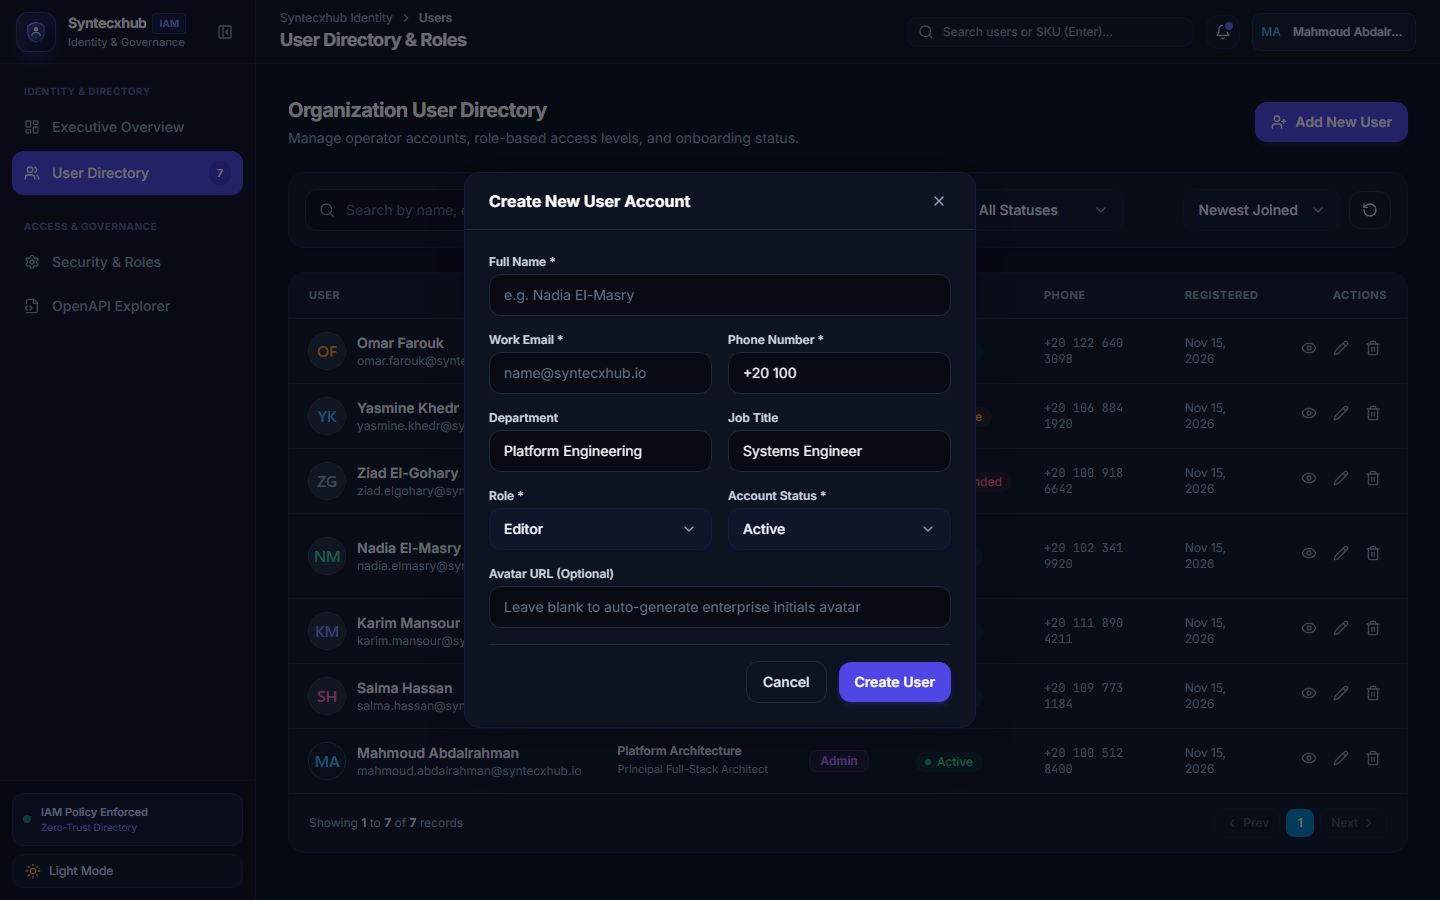
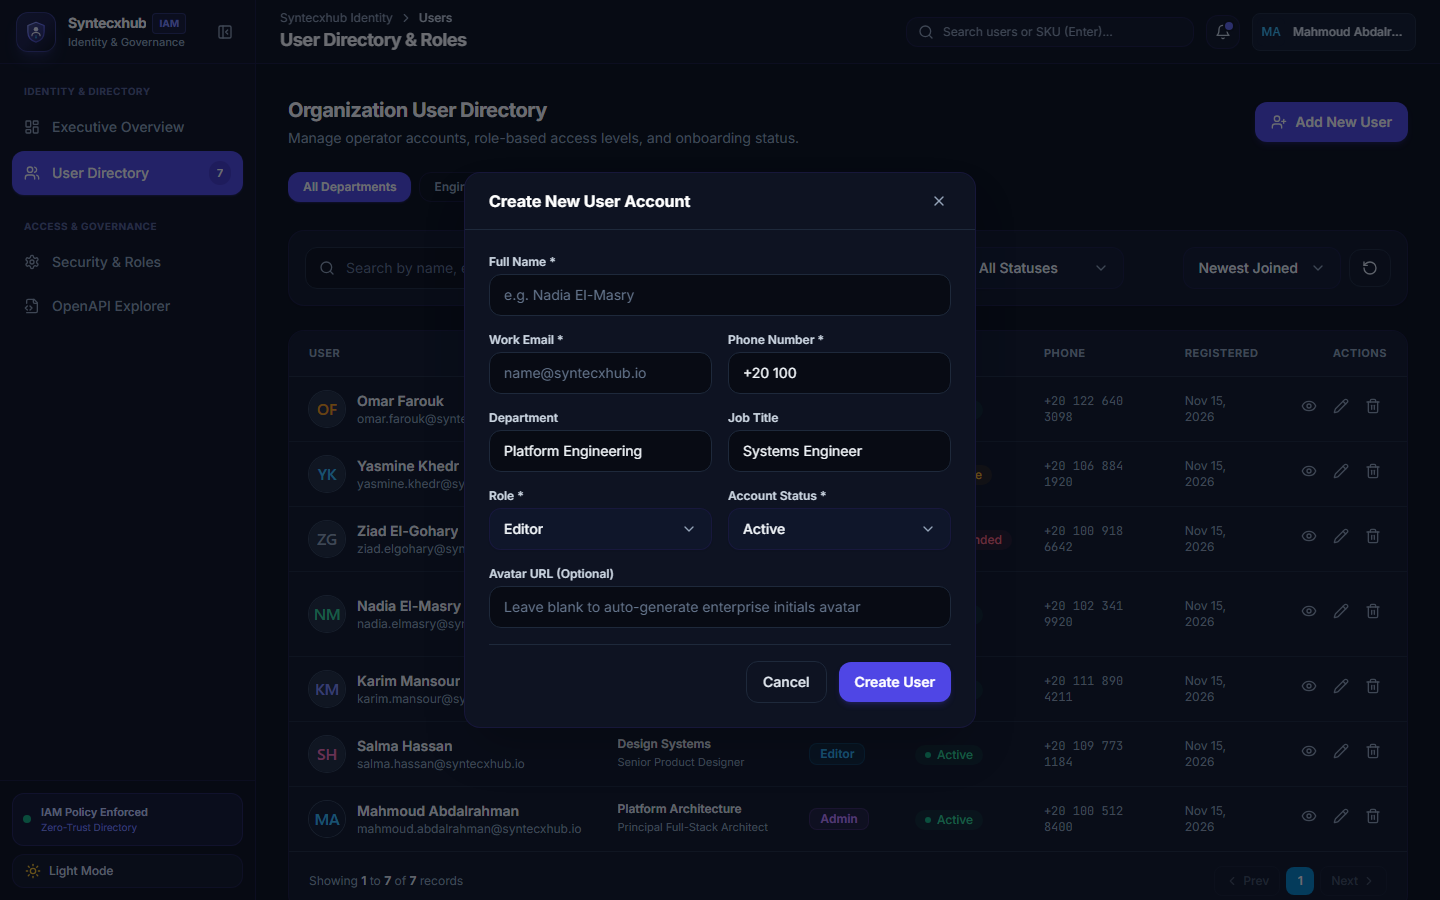
feat(ui): implement distinctive Enterprise IAM Governance workspace design & department filter ribbon

diff --git a/frontend/app/pages/index.vue b/frontend/app/pages/index.vue
@@ -134,6 +134,35 @@ const getRoleBadgeClass = (role: string) => {
       </div>
     </div>
 
+    <!-- Executive Governance & Compliance Strip -->
+    <div class="grid grid-cols-1 sm:grid-cols-3 gap-4">
+      <div class="rounded-xl border border-indigo-950/60 bg-[#0E1528] p-4 flex items-center justify-between">
+        <div>
+          <span class="text-[11px] font-semibold text-slate-400 uppercase tracking-wider block">MFA Enforcement</span>
+          <span class="text-xl font-extrabold text-indigo-400">94.8%</span>
+        </div>
+        <div class="h-10 w-10 rounded-full border-2 border-indigo-500/40 border-t-indigo-400 flex items-center justify-center font-bold text-xs text-indigo-300">
+          95%
+        </div>
+      </div>
+
+      <div class="rounded-xl border border-indigo-950/60 bg-[#0E1528] p-4 flex items-center justify-between">
+        <div>
+          <span class="text-[11px] font-semibold text-slate-400 uppercase tracking-wider block">Active SSO Tokens</span>
+          <span class="text-xl font-extrabold text-emerald-400">1,284 Sessions</span>
+        </div>
+        <div class="h-3 w-3 rounded-full bg-emerald-400 animate-pulse" />
+      </div>
+
+      <div class="rounded-xl border border-indigo-950/60 bg-[#0E1528] p-4 flex items-center justify-between">
+        <div>
+          <span class="text-[11px] font-semibold text-slate-400 uppercase tracking-wider block">Zero-Trust Policy</span>
+          <span class="text-xl font-extrabold text-purple-400">Strict Compliant</span>
+        </div>
+        <ShieldCheck class="h-6 w-6 text-purple-400" />
+      </div>
+    </div>
+
     <!-- Split Grid: Recent Members and Activity Stream -->
     <div class="grid grid-cols-1 gap-6 lg:grid-cols-2">
       <!-- Team Directory Feed -->

diff --git a/frontend/app/pages/users/index.vue b/frontend/app/pages/users/index.vue
@@ -39,6 +39,15 @@ const debouncedSearch = useDebounceFn(() => {
   usersStore.fetchUsers();
 }, 300);
 
+const activeDepartment = ref('');
+
+const selectDepartment = (dept: string) => {
+  activeDepartment.value = dept === 'All Departments' ? '' : dept;
+  usersStore.filters.search = activeDepartment.value;
+  usersStore.filters.page = 1;
+  usersStore.fetchUsers();
+};
+
 const handleFilterChange = () => {
   usersStore.filters.page = 1;
   usersStore.fetchUsers();
@@ -179,6 +188,24 @@ const handleDeleteUser = async (user: UserRecord) => {
       <button type="button" class="btn-primary" @click="openCreateModal">
         <UserPlus class="h-4 w-4" />
         Add New User
+      </button>
+    </div>
+
+    <!-- Department Filter Tabs Ribbon (Enterprise Workspace Pattern) -->
+    <div class="flex items-center gap-2 overflow-x-auto pb-1 select-none">
+      <button
+        v-for="dept in ['All Departments', 'Engineering', 'Product', 'Design', 'Operations', 'Security']"
+        :key="dept"
+        type="button"
+        class="rounded-xl px-3.5 py-1.5 text-xs font-semibold whitespace-nowrap transition-all duration-150 cursor-pointer border border-transparent"
+        :class="
+          (dept === 'All Departments' && !activeDepartment) || activeDepartment === dept
+            ? 'bg-indigo-600 text-white shadow-sm shadow-indigo-600/30'
+            : 'text-slate-600 dark:text-slate-400 hover:text-indigo-400 hover:bg-indigo-950/40 border-slate-200 dark:border-indigo-950/60'
+        "
+        @click="selectDepartment(dept)"
+      >
+        {{ dept }}
       </button>
     </div>
 
